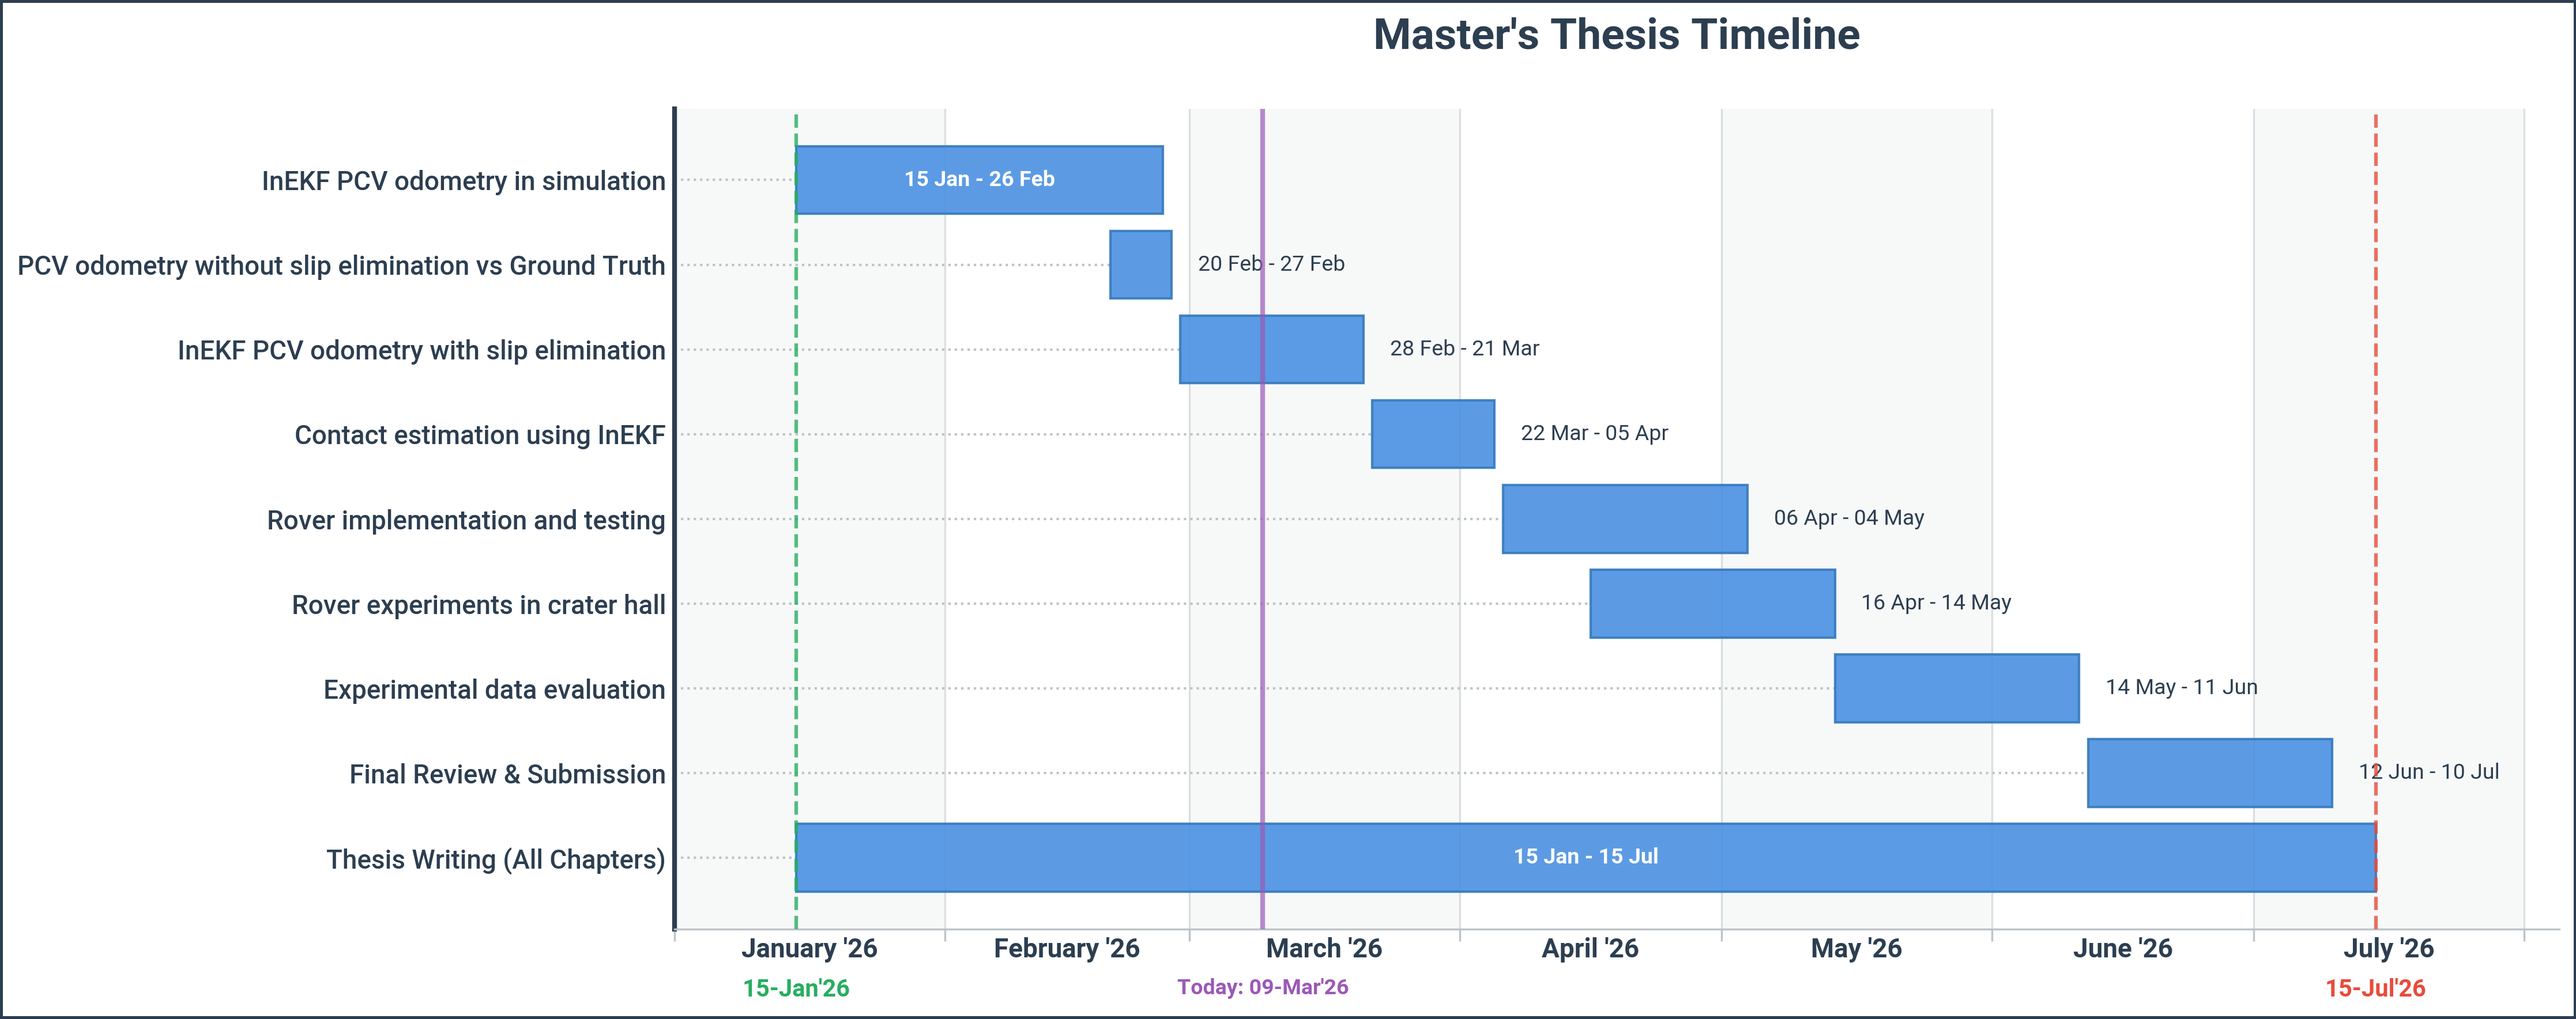
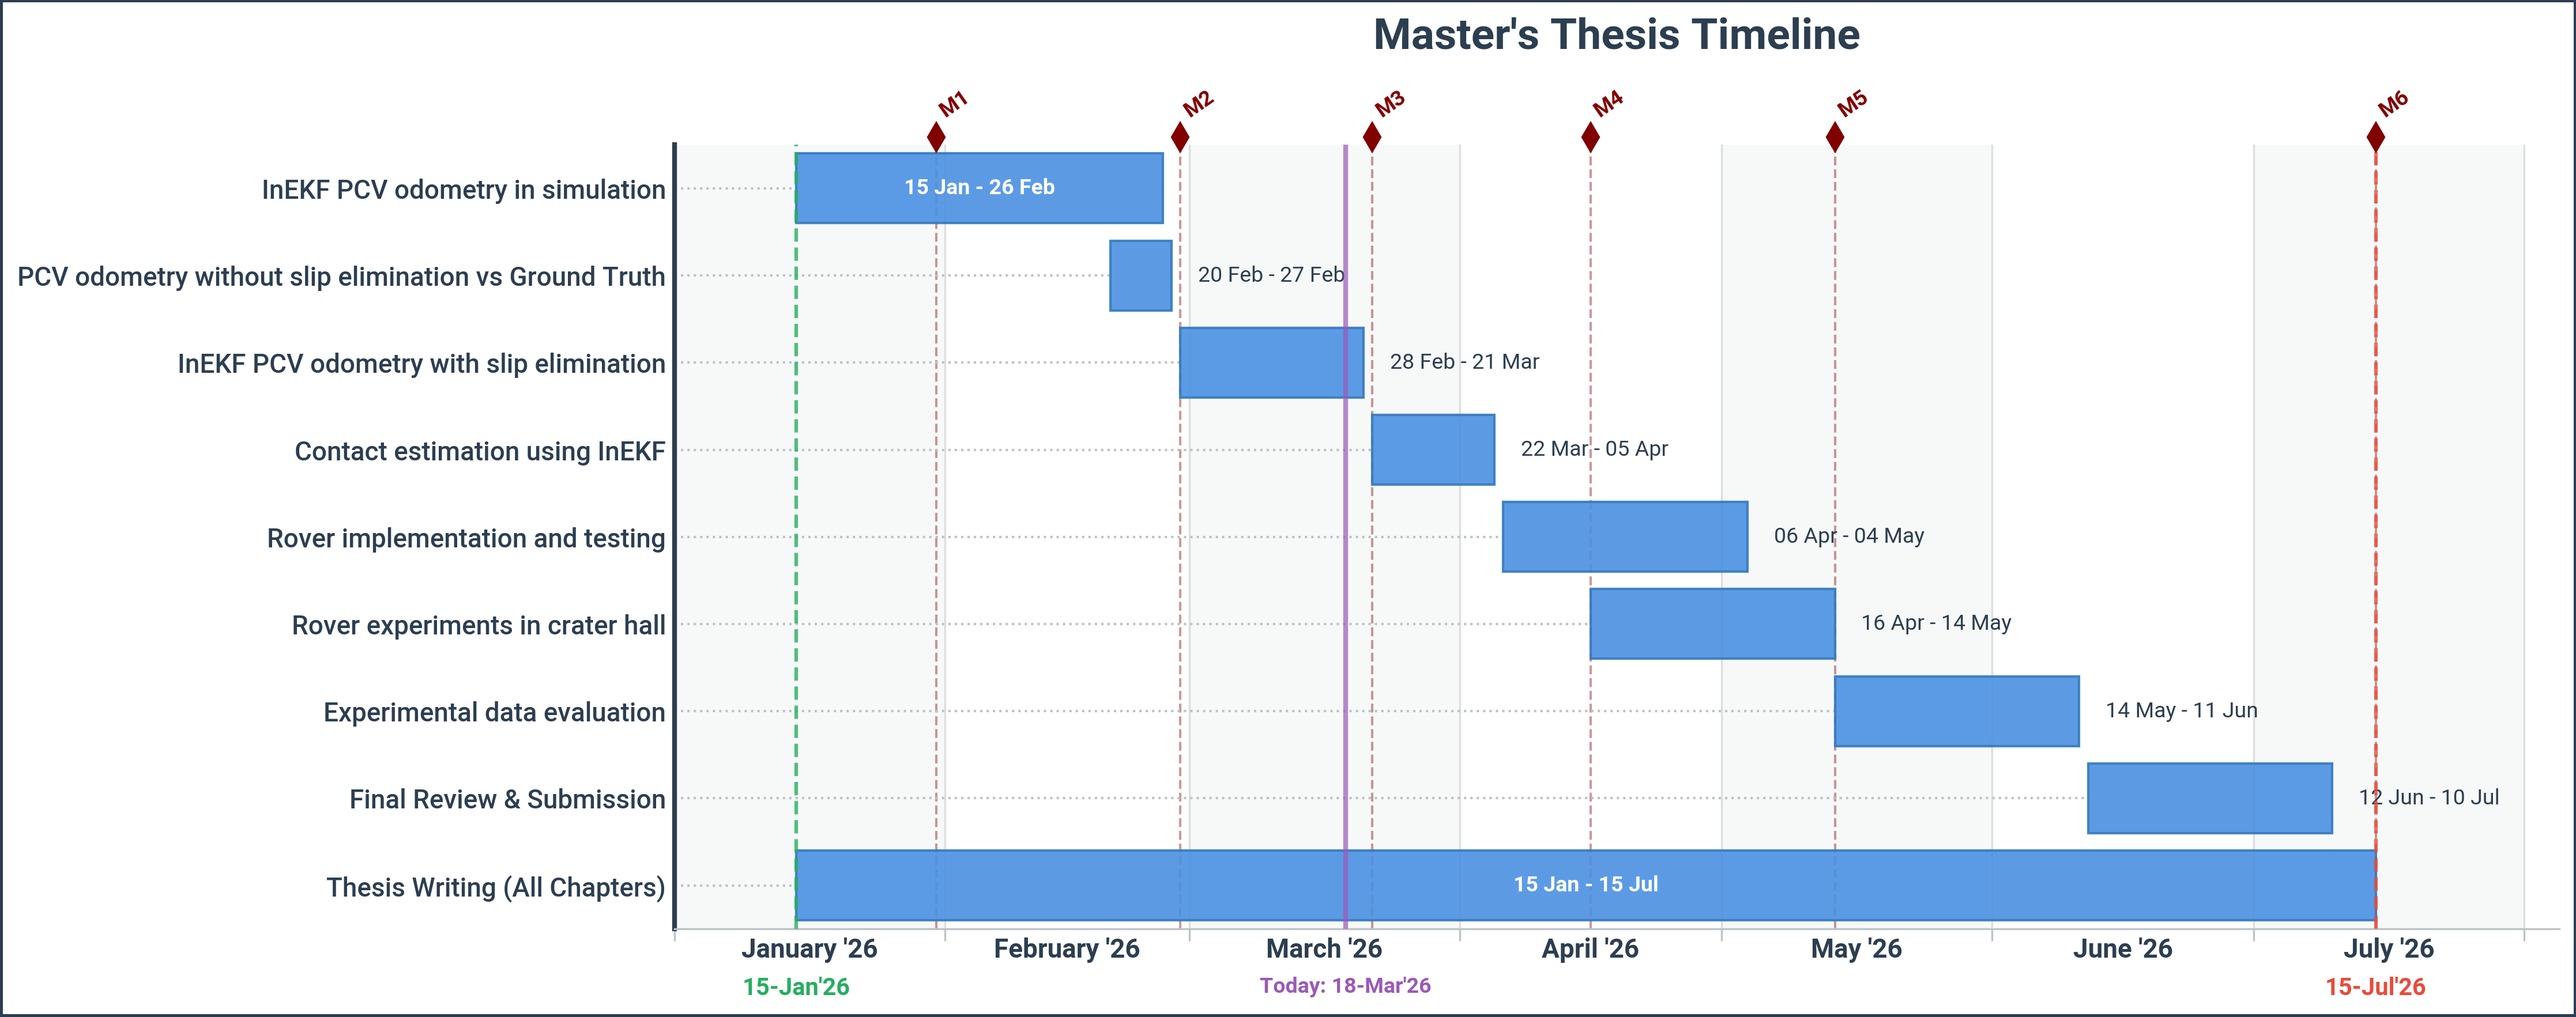
update

diff --git a/gantt-chart/generate-gantt_chart.py b/gantt-chart/generate-gantt_chart.py
@@ -213,6 +213,9 @@ def create_gantt_chart(df, project_start, project_end, config):
     ax.set_yticklabels(df["Task"], fontsize=11, color=STYLE["text_color"], fontweight='500')
     ax.invert_yaxis() 
     
+    # Standard padding
+    ax.set_ylim(bottom=len(df)-0.5, top=-0.5)
+    
     # X-Axis
     ax.xaxis.set_major_locator(mdates.MonthLocator())
     ax.xaxis.set_major_formatter(plt.NullFormatter()) 
@@ -301,10 +304,41 @@ def create_gantt_chart(df, project_start, project_end, config):
             transform=ax.get_xaxis_transform(), fontsize=10, fontweight='bold')
     
     # ----------------------------
+    # Milestones
+    # ----------------------------
+    milestones_cfg = config.get("milestones", {})
+    if milestones_cfg.get("show_milestones", True):
+        milestone_color = "#800000" # Maroon
+        milestones = milestones_cfg.get("items", [])
+        
+        for ms in milestones:
+            ms_date = parse_date(ms["date"])
+            ms_name = ms["name"]
+            
+            if plot_start_lim <= ms_date <= plot_end_lim:
+                # Vertical line
+                ax.axvline(ms_date, color=milestone_color, linestyle='--', 
+                           linewidth=1, alpha=0.4, zorder=1)
+                
+                # Diamond marker slightly above the top spine
+                # Using axis transform for Y to stick to the top (y=1.01)
+                ax.plot(ms_date, 1.01, marker='d', markersize=8, 
+                        color=milestone_color, alpha=1.0, zorder=11,
+                        transform=ax.get_xaxis_transform(), clip_on=False)
+                
+                # Label above the diamond
+                ax.text(ms_date, 1.03, ms_name, 
+                        color=milestone_color, ha='left', va='bottom', 
+                        transform=ax.get_xaxis_transform(),
+                        fontsize=9, fontweight='bold', zorder=10, rotation=35)
+
+    # ----------------------------
     # Title & Save
     # ----------------------------
-    ax.set_title(config["project"]["title"], fontsize=18, pad=25, 
-                 color=STYLE["text_color"], fontweight='bold', loc='center')
+    if config["project"].get("show_title", True):
+        ax.set_title(config["project"]["title"], fontsize=18, pad=40, 
+                    color=STYLE["text_color"], fontweight='bold', loc='center')
+    
     plt.tight_layout()
     
     output_path = config["output"]["filename"]
